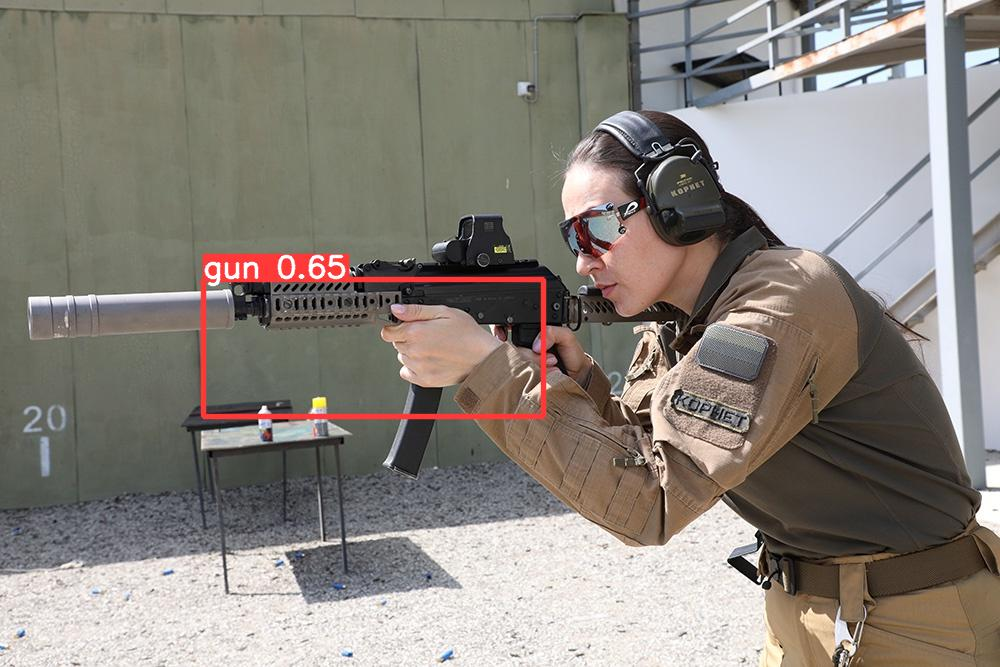
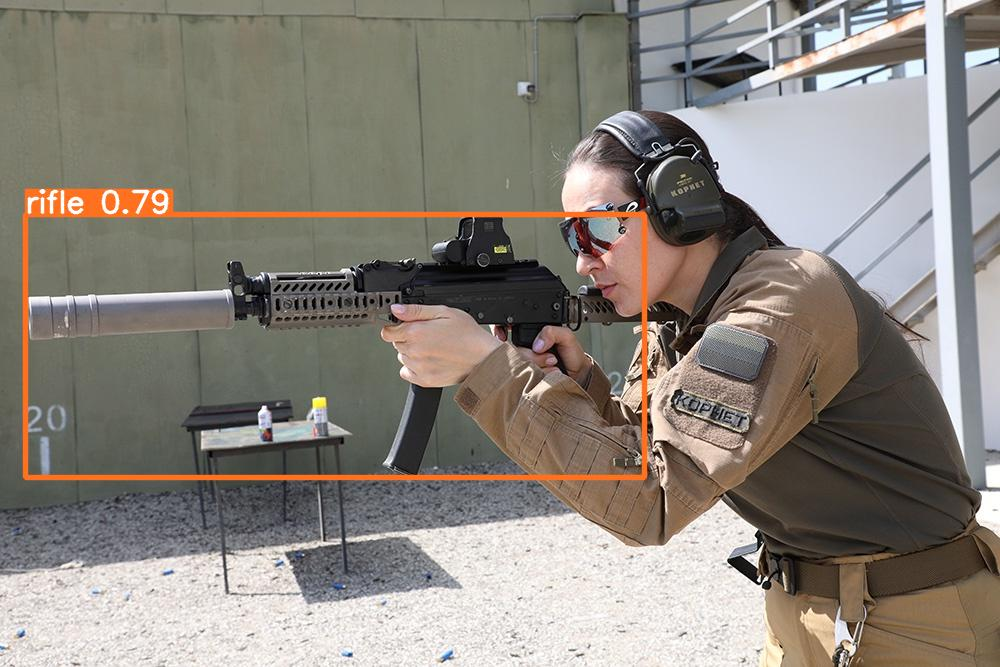
Work version with telegram bot

Changed region(s): [[0.0, 0.2699, 0.651, 0.7196], [0.186, 0.3598, 0.558, 0.6297]]

diff --git a/app.py b/app.py
@@ -7,6 +7,7 @@ from pathlib import Path
 import shutil
 import io
 import cv2
+import telebot
 
 app = FastAPI()
 
@@ -19,7 +20,7 @@ app.add_middleware(
     allow_headers=["*"],
 )
 
-model = YOLO("/Users/20674940/Downloads/best.pt")
+model = YOLO("/Users/20674940/Downloads/last.pt")
 
 # Обработка загрузки изображения и обнаружение объектов
 @app.post("/detect")
@@ -42,6 +43,16 @@ async def detect_objects(file: UploadFile):
 
             # Обработайте изображение с использованием модели YOLO
             result_image = model(source=image, imgsz=640)
+
+            # if list(result_image[0].boxes.cls) != []:
+            #     tokin = '6269767469:AAHQBAndvR_9ix3u2biM-42EIYpguJ0Uy84'
+            #     bot = telebot.TeleBot(tokin)
+            #     classes = list(result_image[0].boxes.cls)
+            #     print(classes)
+            #     guns = {0:'Неопределенное оружие', 1:'Короткоствольное оружие', 2:"Длинноствольное оружие"}
+            #     classes = ', '.join([guns.get(int(x), '') for x in classes])
+            #     print(classes)
+            #     bot.send_message(294282068, f'На камере test обнаружено: {classes}')
 
             # Сохраните результат обработки
             result_image_path = f"runs/detect/predict/{file.filename}"
